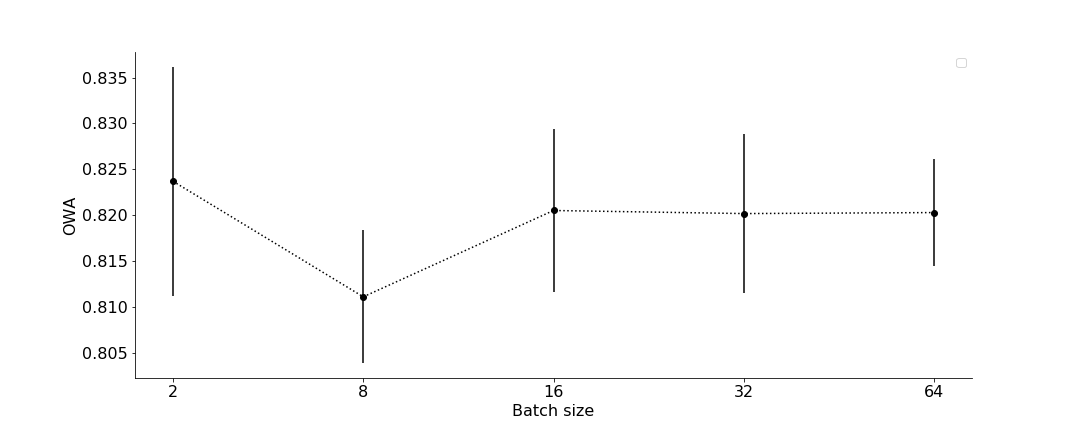
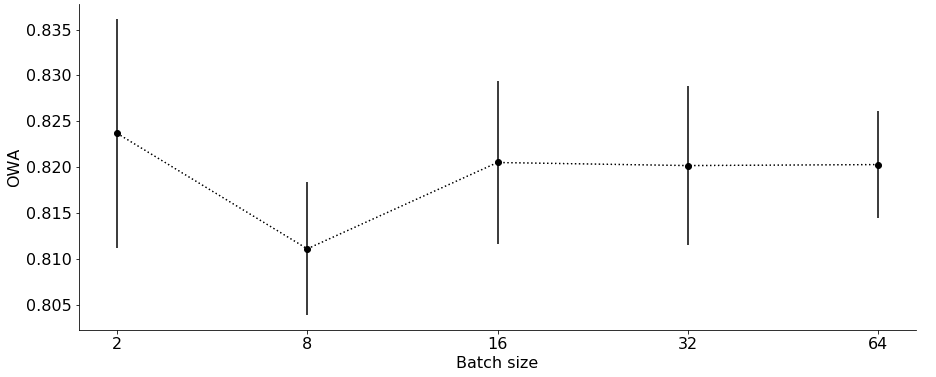
reduce the last figures size

diff --git a/hal_arxiv/hermes_paper.tex b/hal_arxiv/hermes_paper.tex
@@ -529,9 +529,9 @@ In addition to the loss function, the HERMES model also depends on several hyper
  
 \begin{figure}
 \centering
-  \includegraphics[width=1.\linewidth]{m4_nb_of_window}
-  \includegraphics[width=1.\linewidth]{m4_batch_size}
-  \includegraphics[width=1.\linewidth]{m4_learning_rate}
+  \includegraphics[width=0.8\linewidth]{m4_nb_of_window}
+  \includegraphics[width=0.8\linewidth]{m4_batch_size}
+  \includegraphics[width=0.8\linewidth]{m4_learning_rate}
 \caption{OWA for the \textit{hermes-tbats} model on the M4 weekly dataset depending on 3 parameters used during the RNN training: Number of moving windows per time series, the batch size and the learning rate. For each parameter, 10 models with different seeds have been trained. The mean and the standard deviation are represented with a point and a vertical. (Top) Result of the HERMES model depending on the number of windows provided per time series to the RNN corrector. (Middle) Result of the HERMES model depending on the size of the batch size. (Bottom) Result of the HERMES model depending on the learning rate of the optimizer.}
 \label{fig:m4parameter}
 \end{figure}
